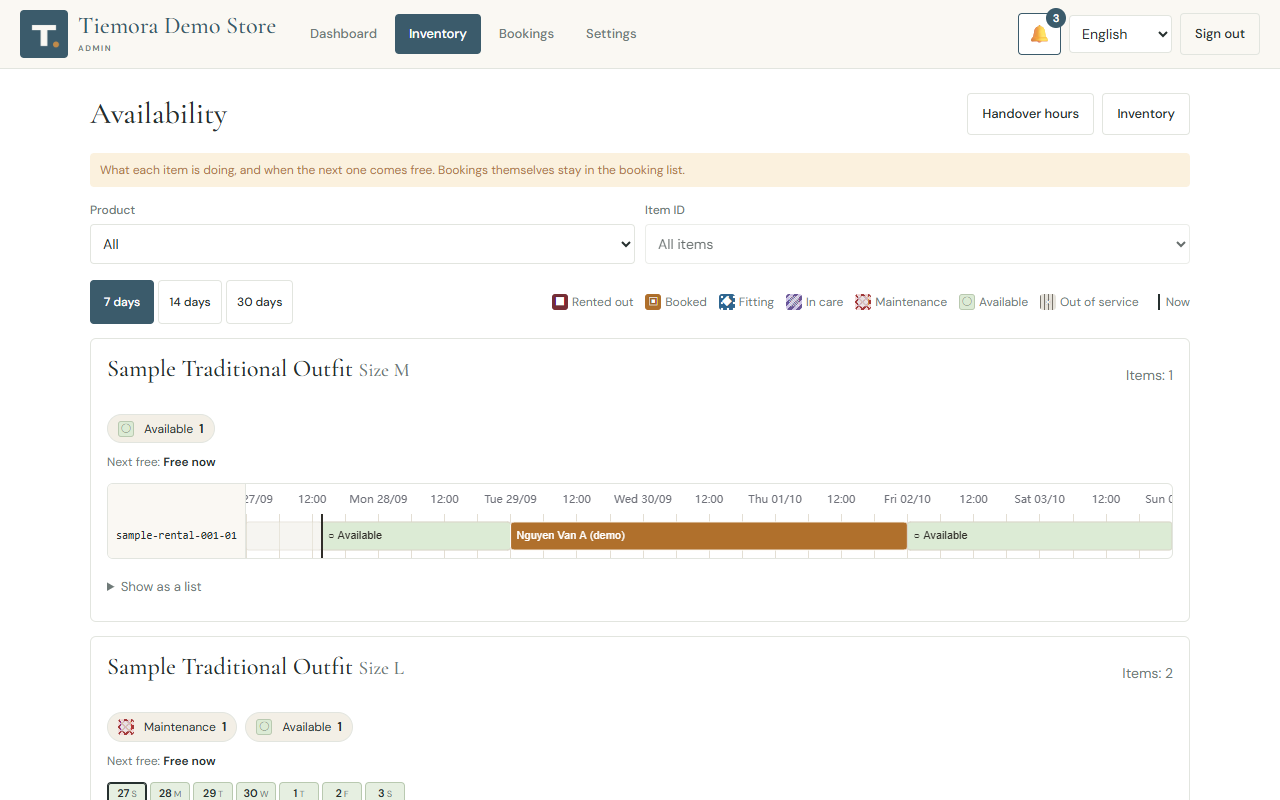
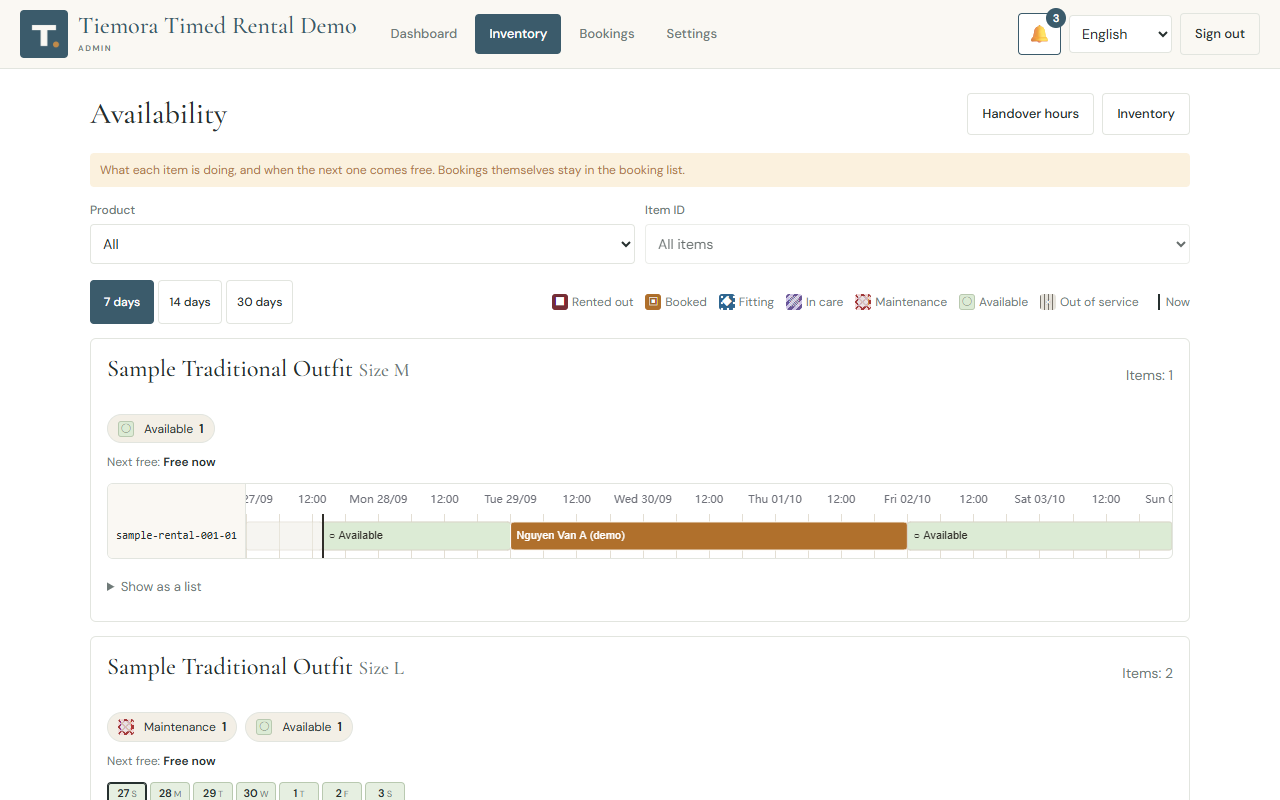
feat(examples): a runnable timed-rental demo configuration
v0.4.0 put rentals on the clock, but nothing in the repository ran that
way: config/store.yaml leaves every booking.* switch off, so a fresh
clone only ever shows whole-day bookings and the new rules had to be
written by hand before they could be seen.

examples/timed-rental/store.yaml turns them on over the standard sample
catalog, so `npm run build:timed-rental` needs no other setup:

- pick-up times on a 30-minute grid (displayStart / displayEnd / slotMinutes)
- opening hours, and handover hours with a lunch gap on weekdays
- Vietnamese public holidays, with a short afternoon handover on them
- overnight turnaround: back by 18:00, ready at 09:00
- fittings, 30 minutes plus a 15-minute buffer
- rental terms in four languages, and store.text.handoffNotice
- a staff digest morning and evening

It only sets configuration; the catalog stays examples/catalog/, and
config/store.yaml is untouched, as with build:pho-demo. CI builds it too,
which also exercises the build-time holiday calendar.

sample-rental-001 gains price.additionalDay so the cheaper-extra-days
rate is visible in both builds.

The README's rental screenshots are recaptured from this demo, so the
pick-up time grid and the handover notice they show are reproducible.

Changed region(s): [[0.125, 0.0, 0.5, 0.0938], [0.25, 0.6562, 0.3125, 0.6875], [0.5312, 0.0312, 0.5625, 0.0625]]

diff --git a/README.md b/README.md
@@ -39,7 +39,7 @@ Nothing talks to WhatsApp, Zalo or Messenger APIs. Staff open a click-to-chat li
 
 ## Screenshots
 
-Rental, straight from this repository: `npm run dev` with the sample catalog and `seed/demo.sql`.
+Rental, straight from this repository: `npm run build:timed-rental`, `npm run db:seed:local` and `npx wrangler dev`.
 
 <p align="center">
   <img src="docs/screenshot-rental.png" alt="Rental storefront: the sample catalog with live stock and a date search" width="480">
@@ -49,7 +49,7 @@ Rental, straight from this repository: `npm run dev` with the sample catalog and
   <img src="docs/screenshot-rental-booking.png" alt="Timed rental booking: rent or try-on, dates, rental length and a pick-up time" width="380">
 </p>
 
-The booking dialog above asks for a pick-up time because the store configured handover hours; without `booking.handoff` it asks for whole days instead. Two real deployments follow — their branding, artwork and catalogs are their own and are not part of Core.
+The dialog asks for a pick-up time, and shows the store's own handover notice, because [examples/timed-rental/store.yaml](examples/timed-rental/store.yaml) configures handover hours. The default build (`npm run dev`) uses the same catalog on whole calendar days. Two real deployments follow — their branding, artwork and catalogs are their own and are not part of Core.
 
 <p align="center">
   <img src="docs/screenshot-flower.png" alt="Hana Hiên storefront demo (sale / pre-order)" width="480">
@@ -64,7 +64,7 @@ The booking dialog above asks for a pick-up time because the store configured ha
   <img src="docs/screenshot-pho-admin-orders.png" alt="Admin orders list with filters and status" width="480">
 </p>
 
-Run `npm run dev` and open `http://localhost:8787/` (storefront) and `http://localhost:8787/admin/` (admin, password from `.dev.vars`). The repository ships with three fictional rental sample products (`examples/catalog/`) and three fictional sale sample products (`examples/sale/`), with matching demo data (`seed/demo.sql`, `seed/sale-demo.sql`). The default is the rental sample. Build the 12-product Phở reference demo with `npm run build:pho-demo`; its separate configuration and artwork live in `examples/pho-demo/`. Use the matching catalog before loading rental or generic sale seeds.
+Run `npm run dev` and open `http://localhost:8787/` (storefront) and `http://localhost:8787/admin/` (admin, password from `.dev.vars`). The repository ships with three fictional rental sample products (`examples/catalog/`) and three fictional sale sample products (`examples/sale/`), with matching demo data (`seed/demo.sql`, `seed/sale-demo.sql`). The default is the rental sample, on whole calendar days. `npm run build:timed-rental` keeps that catalog and turns the rental rules on — pick-up times, handover hours, holidays, turnaround, fittings and rental terms — from `examples/timed-rental/store.yaml`. Build the 12-product Phở reference demo with `npm run build:pho-demo`; its separate configuration and artwork live in `examples/pho-demo/`. Neither demo touches `config/store.yaml`. Use the matching catalog before loading rental or generic sale seeds.
 
 ## Architecture
 

diff --git a/docs/booking.md b/docs/booking.md
@@ -180,6 +180,12 @@ booking:
       mon: [{start: "07:00", end: "08:30"}, {start: "18:30", end: "21:00"}]
 ```
 
+A working version of all of this ships as [examples/timed-rental/store.yaml](../examples/timed-rental/store.yaml):
+`npm run build:timed-rental` builds the standard sample catalog with pick-up times, opening and
+handover hours, Vietnamese public holidays, overnight turnaround, fittings, rental terms and a staff
+digest, without touching `config/store.yaml`. Run it, then `npm run db:seed:local` and `wrangler dev`,
+to see every section of this page in the storefront and the admin.
+
 Display bounds do not limit the rental's duration: the due time and care period can cross days.
 `openingHours` uses the same weekday keys as handoff; omitted configuration is unrestricted,
 while explicitly empty weekday windows mean closed. Configure all operating weekdays. A date-specific

diff --git a/docs/configuration.md b/docs/configuration.md
@@ -5,6 +5,10 @@ Everything that makes a Tiemora deployment *your* store is in `config/store.yaml
 Set `TIEMORA_CONFIG=/path/to/other.yaml` to build with another file, and `TIEMORA_CATALOG=/path` to override the catalog directory. Set `TIEMORA_ASSETS=/path/to/public-artwork` to overlay that directory into `dist/assets/` at build time; include only publishable assets. The standard build uses only `storefront/assets/`.
 
 `npm run build:pho-demo` selects `examples/pho-demo/store.yaml`, its catalog and its artwork together.
+`npm run build:timed-rental` selects `examples/timed-rental/store.yaml`, which keeps the standard
+sample catalog and only turns the rental rules on: pick-up times, opening and handover hours,
+public holidays, turnaround, fittings, rental terms and a staff digest. Neither build touches
+`config/store.yaml`.
 
 ## Keys
 
